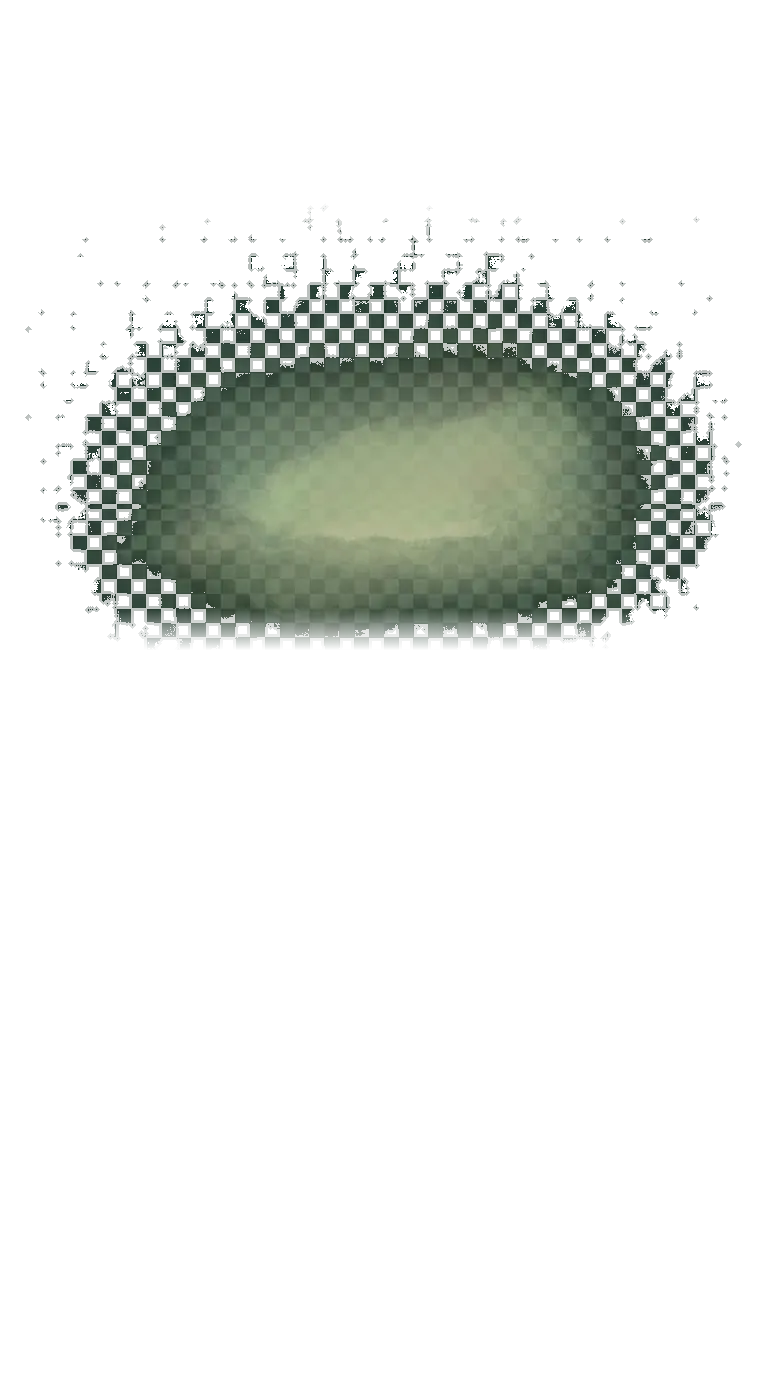
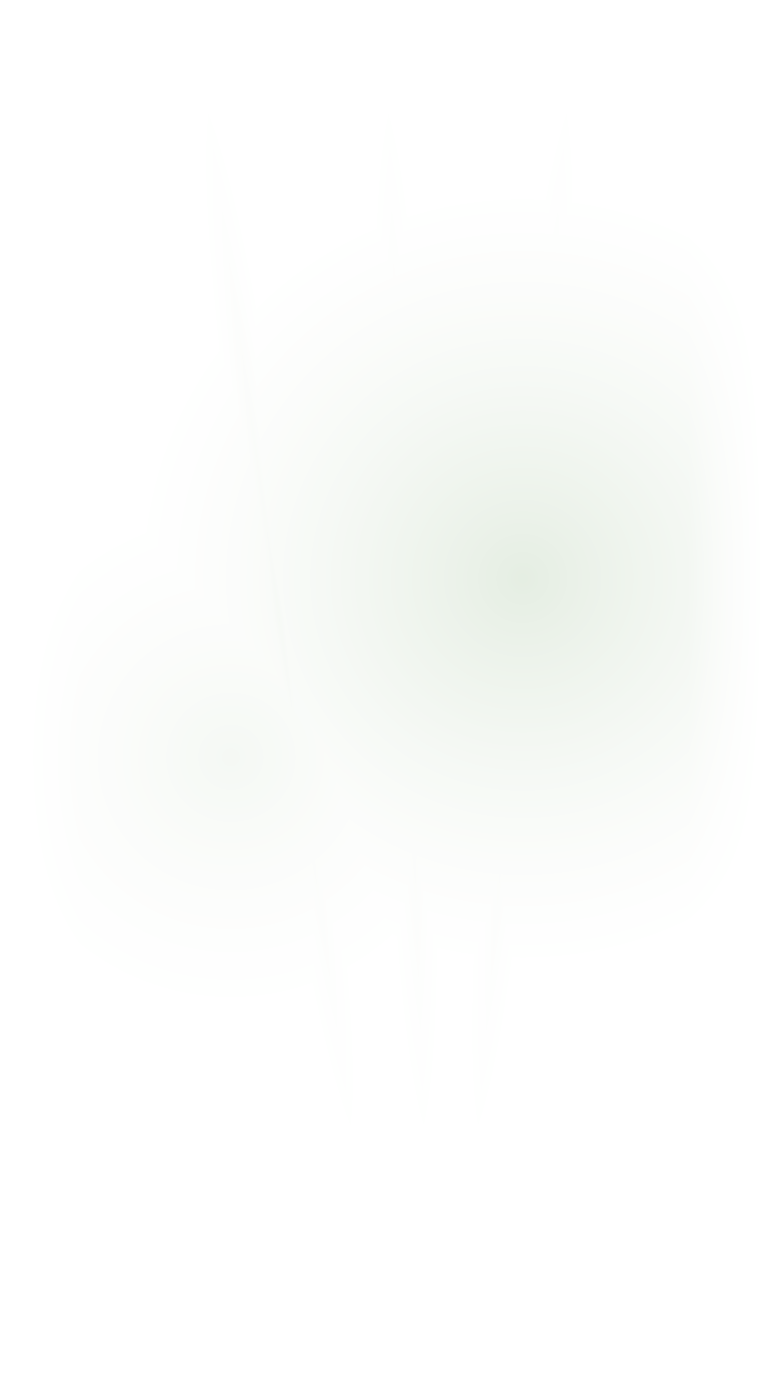
feat(assets): SW-010 森林 light_shows/clearing 批准候选入包
将 SW-002 R1 已批准候选逐字节复制入 app/src/main/assets/visual/
（sha256 与候选 manifest 完全一致），forest.json 两个 overlay 层补回
asset 字段；相位 atMeters/toOpacity/fadeMeters 等产品参数未改动。

ForestShell 渲染链无需改动（drawImageLayer 已支持 overlay asset，
两处 imageLayers 构建器已处理 Overlay.asset 分支）。

模拟器真实展示验证（emulator-5554，冒烟注入驱动真实引擎/控制器/渲染链）：
六阶段 0/100/265/425/630/785m 全程无棋盘格、无接缝暴露；停止后画面
逐像素冻结（freeze-a/b 主体区域哈希一致）。217 本地单测 0 失败，
lint/debug 构建过。

发现但未自行裁定的问题：两张候选素材 alpha 峰值偏低（light_shows
54.9%、clearing 29.8%），叠加相位 toOpacity 后实机 630m/785m 对比
画面主体像素差异 mean 1.4%/max 12.5%，连续游玩可见度弱。量化证据见
docs/collaboration/evidence/H-SW-010-R1/alpha-visibility-analysis.txt，
留给 Antigravity 独立复验是否接受当前强度。

Changed region(s): [[0.0625, 0.1562, 0.9375, 0.4688]]

diff --git a/ASSETS.md b/ASSETS.md
@@ -5,7 +5,7 @@
 
 ## 一、森林视觉素材（MiniMax 生成，v1/v2/v3/v4 四批交付）
 
-**状态：v4「五层复验合格」结论已撤回——两个 overlay 层（light_shows/clearing）存在问题纹理，已程序降级待 MiniMax 重制；outline/trunks/leaf_path 三层真实图入包。**
+**状态（2026-10-14，SW-010）：light_shows/clearing 两层改用 SW-002 R1 批准候选逐字节入包（哈希一致，无棋盘格/AI生图瑕疵）；outline/trunks/leaf_path 三层真实图继续入包。但两层候选素材 alpha 偏低，真实游玩画面可见度弱，详见下方「SW-010 入包记录」，不冒称视觉验收满分。**
 
 **撤回经过（2026-10-13，T06 前定点修复）**：a235bf1 曾依据程序化统计（8px 相位差、块交替率、四边 alpha）判定 v4 五层合格。用户以实际图像复核指出 785m 合成图**中央仍有明显棋盘格**——统计阈值未能替代图像检查（此前的检验只针对 8px 周期与符号交替，漏掉了 **32px 周期对角纹理**）。补充频域检验：合成图中心 32px 对角分量能量 26.65%；逐层隔离后 **light_shows 55.10%**（16px 谐波 11.3%，v2 起沿用未重制）、移除后 785m（新增 clearing）仍 21.78%；而仅含 outline/trunks/leaf_path 的 265–630m 阶段为 0.46%（干净）。据此两个 overlay 层判定为问题层，从 forest.json 移除 asset 走程序降级（`drawLightShows`/`drawClearingGlow`），**不以降透明度隐藏问题**；等 MiniMax 新修复稿后按本节标准重新验收候选与入包文件并重生成六阶段合成。角色维持程序绘制正式方案。
 
@@ -15,13 +15,39 @@
 | tree_outline | v4 真实图，覆盖 49% | **入包**（对角能量 ≤5%，内容带干净） |
 | tree_trunks | v4 真实图，覆盖 80%（32px 轴向条纹为树干自然结构，非棋盘） | **入包** |
 | leaf_path | v4 真实图，覆盖 32% | **入包** |
-| light_shows | **程序降级**（v4 真实图撤出：中心 32px 对角能量 55%） | **待 MiniMax 重制** |
-| clearing | **程序降级**（v4 真实图撤出：785m 阶段对角能量 21.8% 且为其唯一新增层） | **待 MiniMax 重制** |
+| light_shows | SW-002 R1 候选真实图入包（哈希一致，三束斜光+2鸟剪影，程序算法生成非AI生图） | **入包**（**但 alpha 峰值仅 54.9%，可见度弱，见下方记录**） |
+| clearing | SW-002 R1 候选真实图入包（哈希一致，径向渐变光斑，程序算法生成非AI生图） | **入包**（**但 alpha 峰值仅 29.8%，可见度弱，见下方记录**） |
 | traveler_idle | v1–v3 均 81% 满帧不合格 | **程序绘制为正式方案**（合格静态角色也不冒充动画） |
 | style_ref / connectivity_test | 参考/连通性测试，非游戏层 | 不入包 |
 
-- **六阶段合成（重新生成，不复用旧截图）**：`.local-verify/t6fix/stages/stage_{000,100,265,425,630,785}m.png`——按入包文件与 SensoryState smoothstep 透明度合成，问题层按程序渲染语义省略；265m 起各阶段中心对角能量均 0.46%（干净），100m 为 5.8%（淡入低反差噪声），0m 纯黑幕。
-- **复验方法备忘（下轮修复稿验收用）**：① 实际图像目检（不可只用统计阈值）；② 8px 与 **32px** 双周期相位/频域检验；③ 逐层内容带中心而非图像几何中心（clearing 带外曾致漏检）；④ 候选与入包文件逐字节一致；⑤ 六阶段合成重生成。
+- **六阶段合成（T06 修复稿，历史记录）**：`.local-verify/t6fix/stages/stage_{000,100,265,425,630,785}m.png`——265m 起各阶段中心对角能量均 0.46%（干净），100m 为 5.8%（淡入低反差噪声），0m 纯黑幕。
+- **复验方法备忘**：① 实际图像目检（不可只用统计阈值）；② 8px 与 **32px** 双周期相位/频域检验；③ 逐层内容带中心而非图像几何中心（clearing 带外曾致漏检）；④ 候选与入包文件逐字节一致；⑤ 真机/模拟器六阶段合成重生成。
+
+### SW-010 入包记录（2026-10-14）
+
+将 SW-002 R1 批准候选逐字节复制入 `app/src/main/assets/visual/`，forest.json 的
+`light_shows`/`clearing` 两个 overlay 层补回 `asset` 字段（相位 atMeters/toOpacity/
+fadeMeters 等产品参数未改动）。模拟器真实展示（emulator-5554，冒烟注入驱动真实
+RealWalkEngine/RealWalkController/ForestShell 渲染链，非截图伪造）六阶段
+0/100/265/425/630/785m 全程无棋盘格、无接缝暴露、停止后画面逐像素冻结
+（见 evidence/H-SW-010-R1/stages/freeze-a.png 与 freeze-b.png，画面主体哈希一致，
+仅状态栏时钟像素有差异）。
+
+**哈希核对**（候选 manifest ↔ 正式入包文件，sha256 完全一致）：
[2 lines of base64/hex data omitted]
+
+**但发现视觉强度问题**（evidence/H-SW-010-R1/alpha-visibility-analysis.txt 完整数据）：
+两张候选素材自身 alpha 峰值偏低（light_shows 54.9%、clearing 29.8%，均为候选设计
+阶段的保守取值，非本轮引入），叠加 forest.json 相位目标 toOpacity（0.65/0.9）后，
+合成透明度峰值约 35.7%/26.8%。实机对比 630m（light_shows 早已满淡入）与 785m
+（clearing 刚满淡入）两张截图，画面主体区域逐像素差异 mean=1.4%、max=12.5%——
+连续游玩时该变化并不显著，玩家大概率察觉不到两层新内容的揭示。
+
+这不是棋盘格/AI生图瑕疵类问题，是候选素材本身视觉强度是否达标的产品判断，
+**本轮不自行判定合格或打回**，留给 Antigravity 独立复验裁定（可能结论：接受当前
+强度 / 要求 MiniMax 提高 alpha 后出新候选 / 调整 forest.json 的 toOpacity 作为临时
+缓解，但后者属产品参数变更需先登记契约差异，不在本次任务范围内擅自改动）。
 - **视觉包体**：真实图 3 层 webp 共 214 KB（预算 ≤2 MB/景 ✓）。
 - **渲染方式**（`ForestShell`）：带 `asset` 的层解码一次、按高度 cover 铺满、
   透明度严格来自 SensoryState（米数纯函数）、parallax 层在图片超出屏幕的
